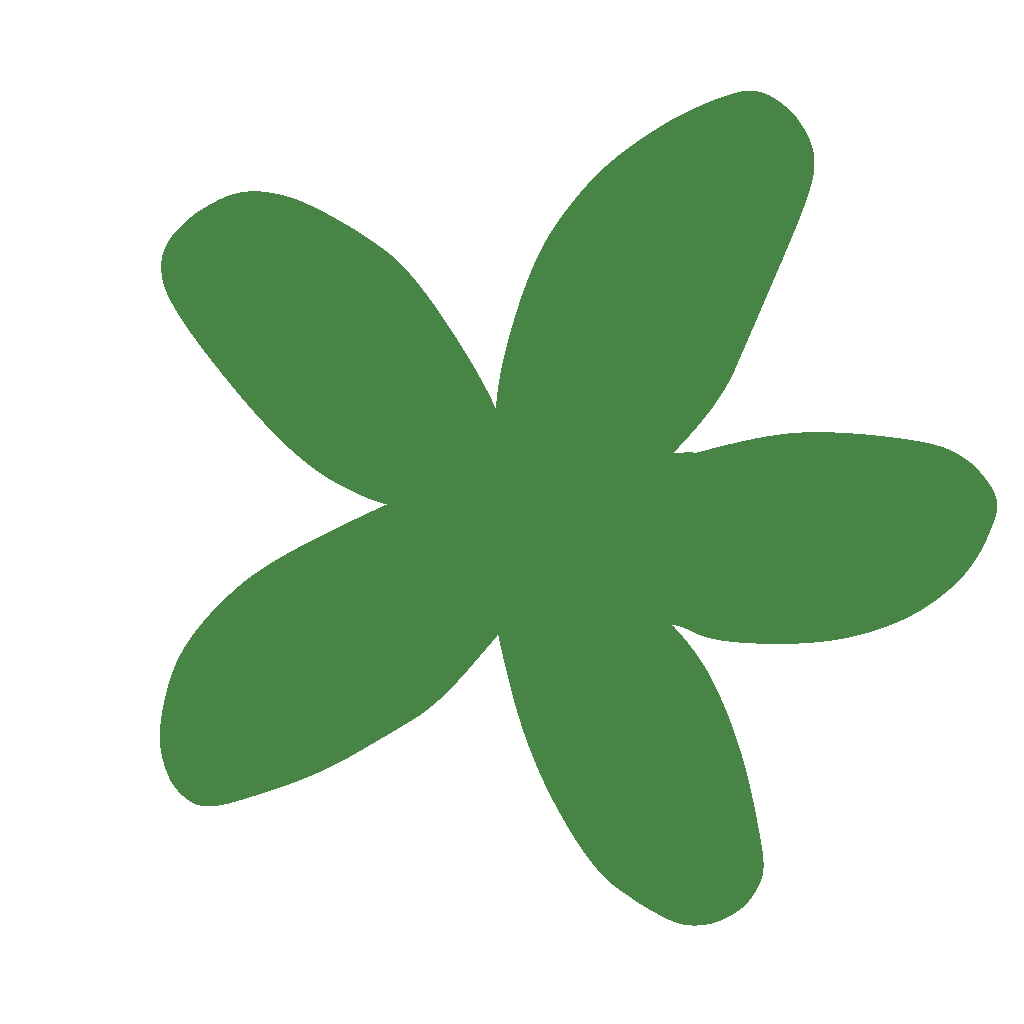
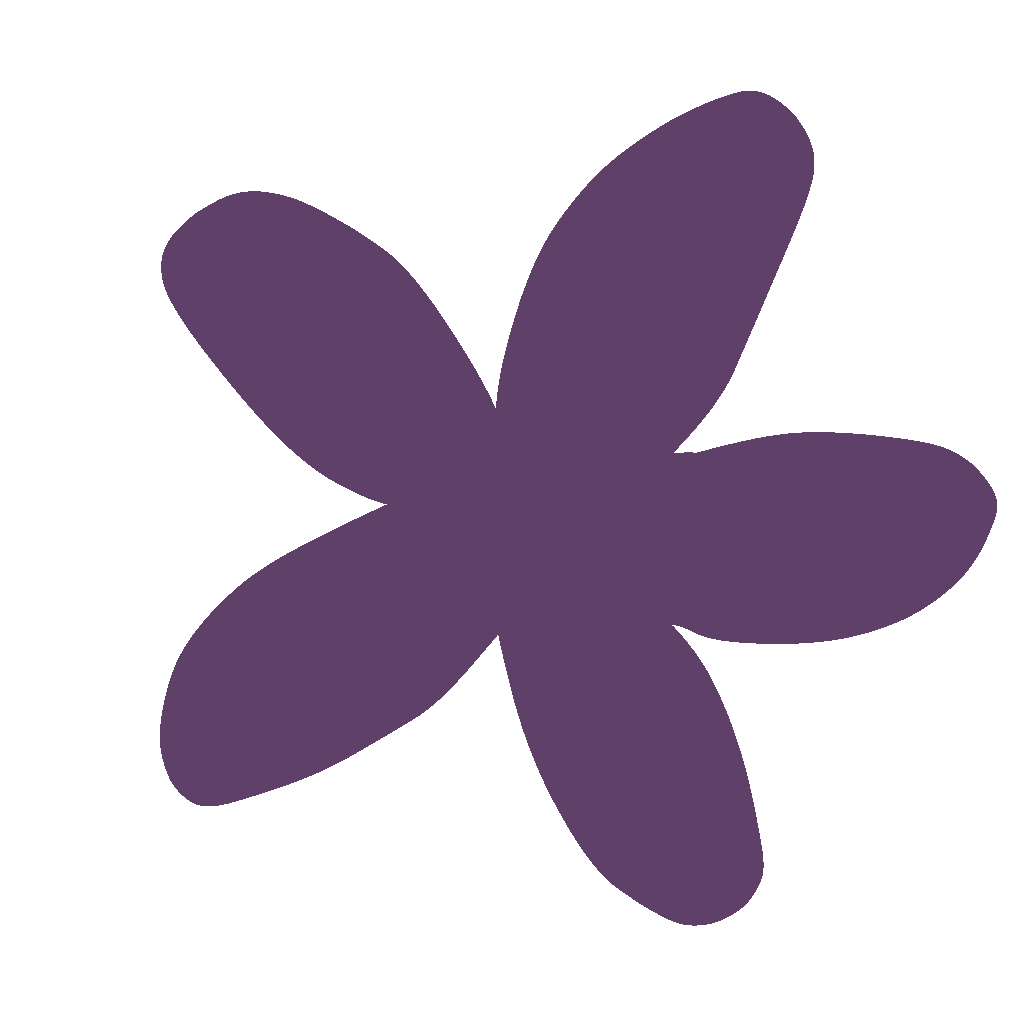
Add files via upload

diff --git a/index.html b/index.html
@@ -55,7 +55,7 @@
 </head>
 <body>
     <div id="top-banner" class="top-banner">
-        <h1 id="main-banner-title">⏰ 0일째 기상 성공 중입니다!</h1>
+        <h1 id="main-banner-title">⏰ 0일째 기상 성공!</h1>
         <div class="sub-text">Wake me up when you come back</div>
         <div class="banner-img-container"><img id="banner-center-img" src="" alt="배너 이미지"></div>
         <div id="today-date-display" class="today-date-box"></div>
@@ -139,7 +139,7 @@
             function updateDashboard() {
                 let checkedDays = 0;
                 for (let i = 1; i <= TOTAL_DAYS; i++) { if (challengeData[i] && challengeData[i].checked) checkedDays++; }
-                mainBannerTitle.innerText = `⏰ ${checkedDays}일째 기상 성공 중입니다!`;
+                mainBannerTitle.innerText = `⏰ ${checkedDays}일째 기상 성공!`;
                 achievedCountEl.innerText = checkedDays;
                 achievementRateEl.innerText = Math.round((checkedDays / TOTAL_DAYS) * 100);
                 SafeStorage.setItem(STORAGE_KEY_DATA, JSON.stringify(challengeData));
